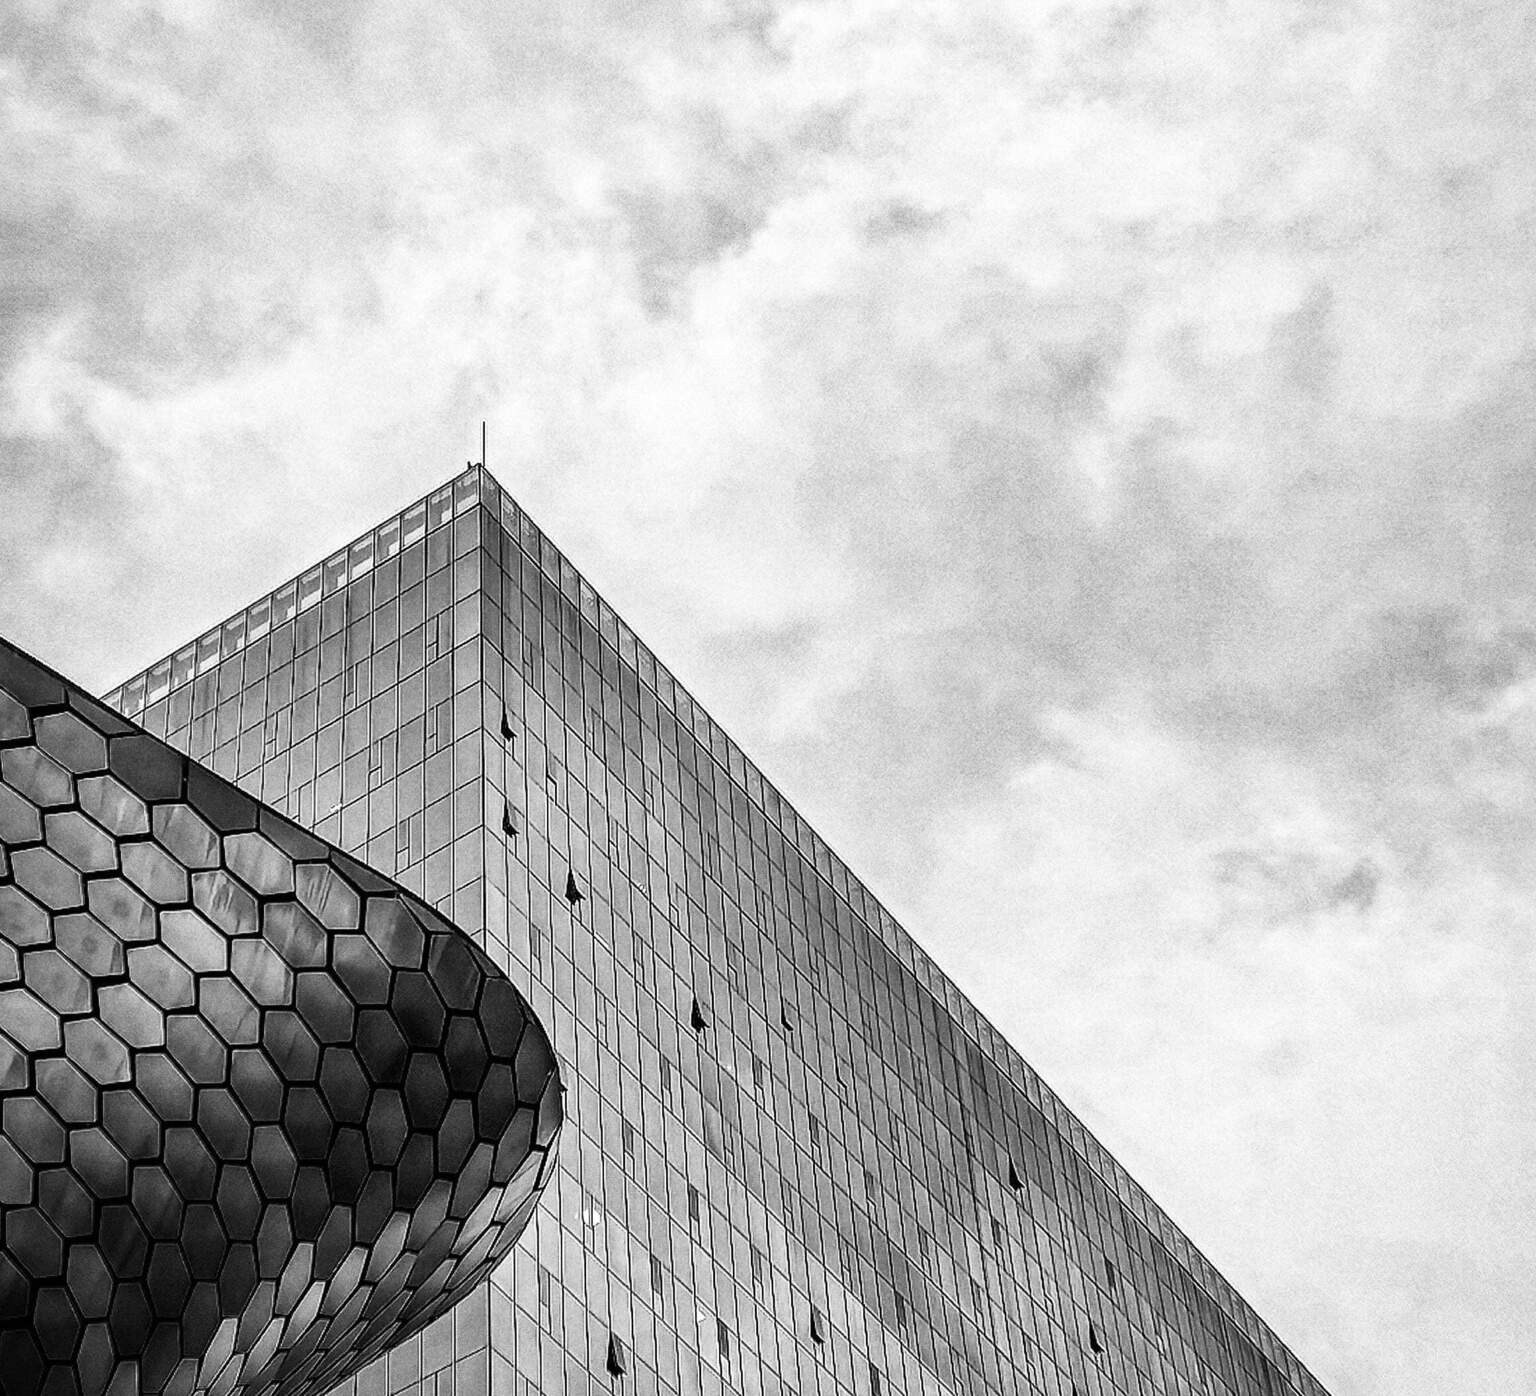
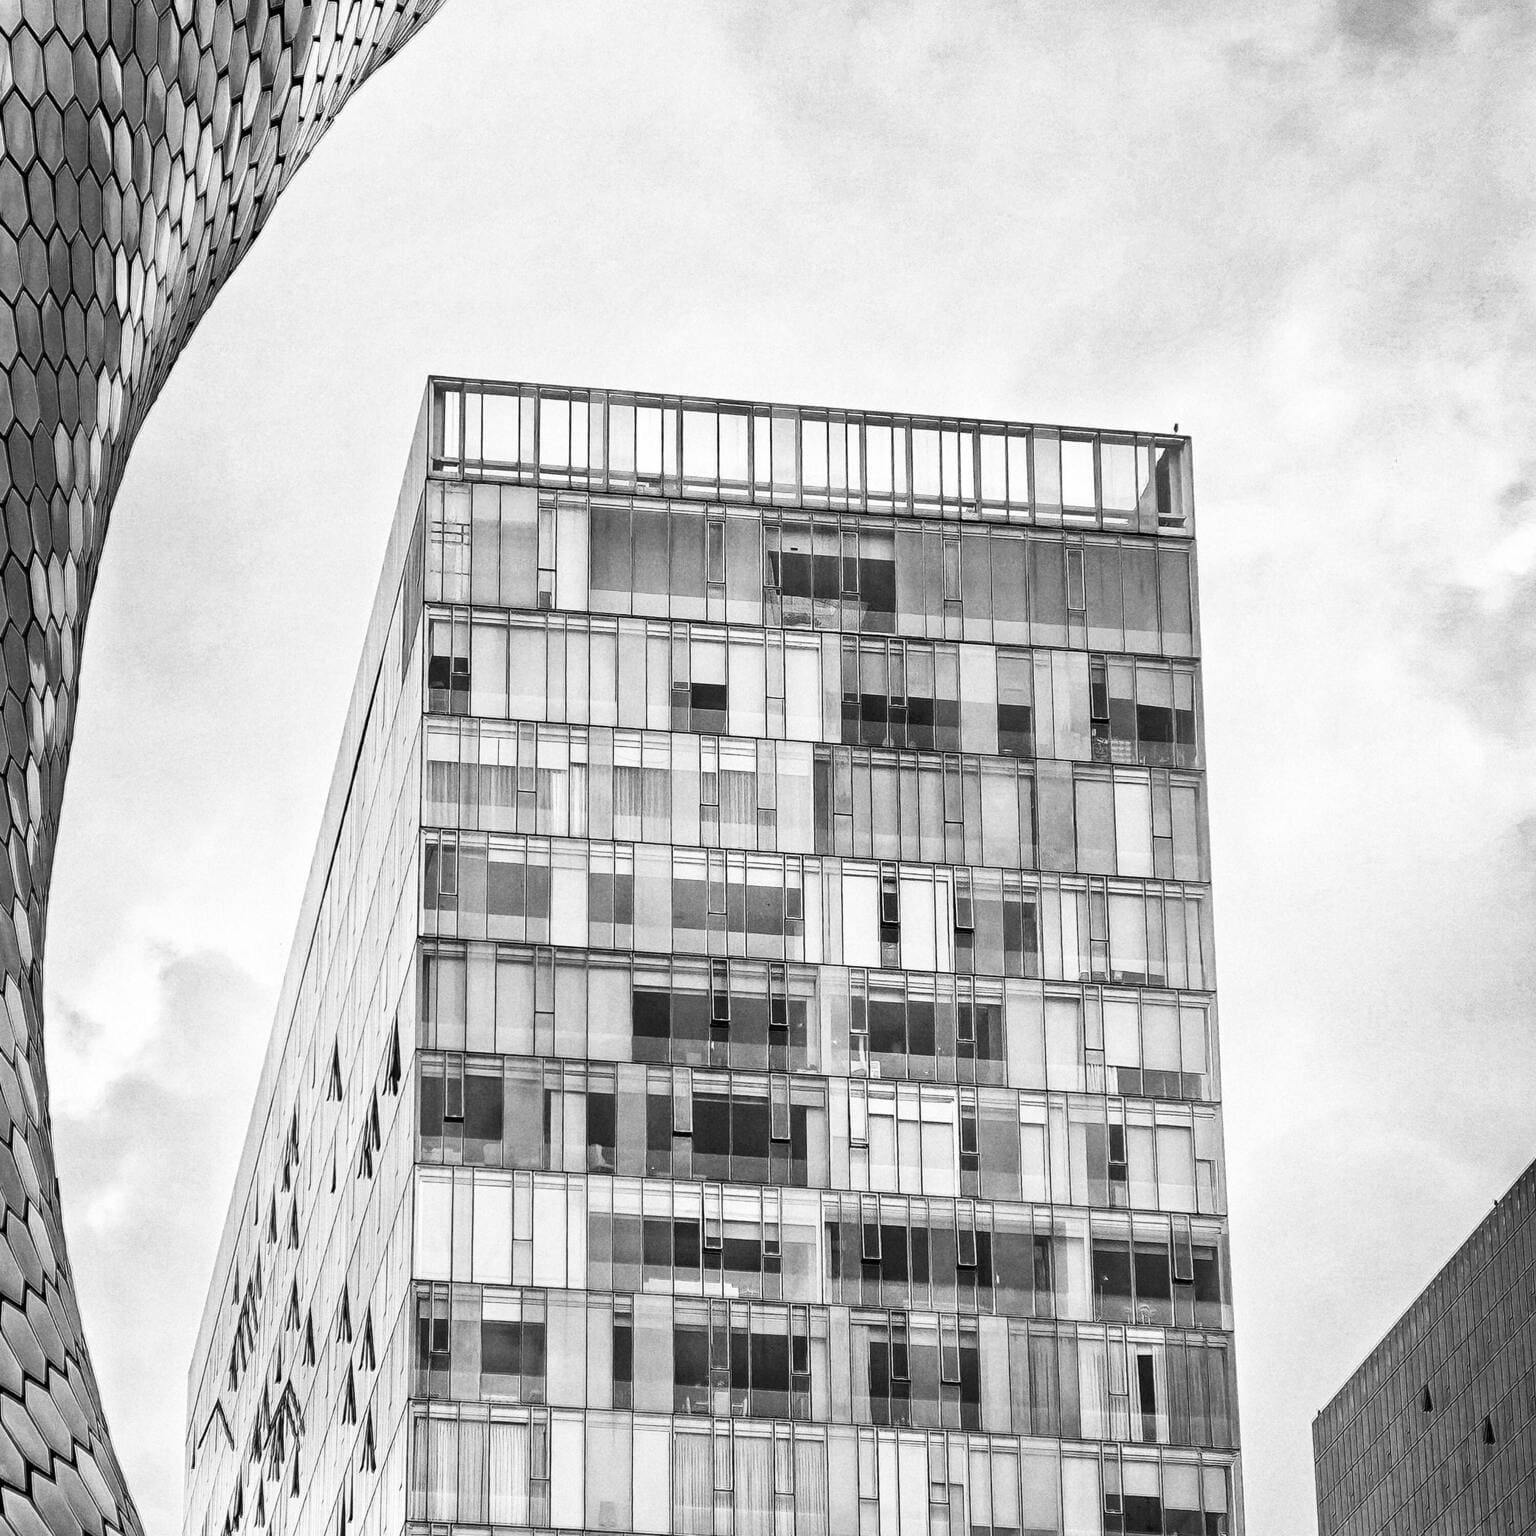
style: Update Home page
- Update hero image
- Update cards styles

diff --git a/app/components/pages/home/HomeHero.module.css b/app/components/pages/home/HomeHero.module.css
@@ -1,7 +1,7 @@
 .section {
     position: relative;
     display: flex;
-    min-height: 60dvh;
+    min-height: 60vh;
     background-color: var(--bg-secondary);
     flex-direction: column;
 
@@ -42,7 +42,7 @@
     position: relative;
     z-index: 2;
     width: 100%;
-    padding: var(--p-sm) var(--p-xs);
+    padding: var(--p-sm) 1.4rem;
     border-radius: var(--radius-panel);
     background-color: var(--opacity-60);
     backdrop-filter: blur(10px);

diff --git a/app/components/pages/home/HomeCard.module.css b/app/components/pages/home/HomeCard.module.css
@@ -7,6 +7,13 @@
     border: 1px solid var(--border);
     flex-direction: column;
     gap: var(--gap-card-mob);
+    transition: box-shadow var(--trs);
+
+    @media (width >= 1280px) {
+        &:hover {
+            box-shadow: var(--box-shadow-button);
+        }
+    }
 }
 
 .iconWrap {
